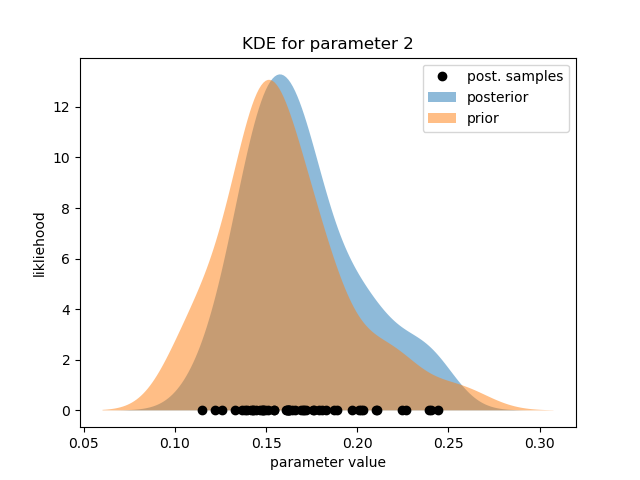
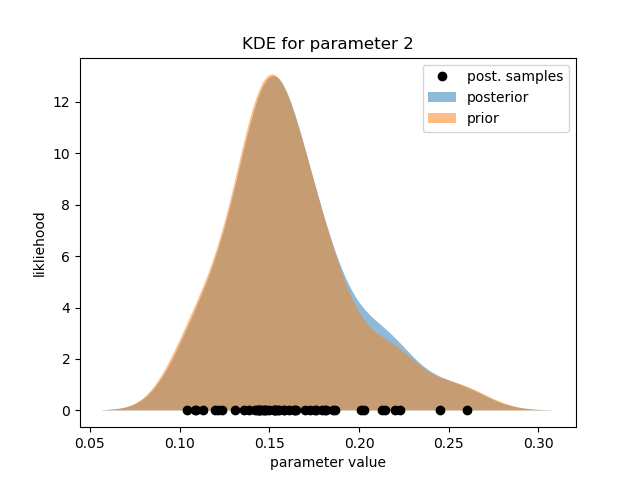
possibly fixed - needs more checking (2)

diff --git a/4DEnVar_engine.c b/4DEnVar_engine.c
@@ -169,12 +169,14 @@ gsl_matrix * fourDEnVar_sample_posterior( gsl_matrix * xb, gsl_matrix * hx, gsl_
     so need to take square root to give Wa. 
     Need to zero the upper left triangle as GSL
     leaves the original matrix in there.
+    
+    DO WE NEED TO ZERO THE UL TRIANGLE?
     */
 
     gsl_linalg_cholesky_decomp1(work2);  
-    for(i=0;i<work2->size1;i++)
-        for(j=i+1;j<work2->size2;j++)
-            gsl_matrix_set(work2, i, j, 0.0);
+    //for(i=0;i<work2->size1;i++)
+    //    for(j=i+1;j<work2->size2;j++)
+    //        gsl_matrix_set(work2, i, j, 0.0);
             
 
     /*3a. Invert the square root matrix*/

diff --git a/zero_order_tests/genZero.py b/zero_order_tests/genZero.py
@@ -129,11 +129,11 @@ if __name__=="__main__":
 
     import subprocess
 
-    truth=[0.7,0.5]
-    prior=[0.5,0.3]
+    truth=[1.0,1.0]
+    prior=[0.5,0.5]
     prior_uncert=[1.0,1.0]
-    nens=10
-    nobs=[1,1]
+    nens=500
+    nobs=[5,1]
     obs_uncert=[1.0,1.0]
 
     z=zeroOrderModelEnsemble(truth,prior,prior_uncert,nens,nobs,obs_uncert)
